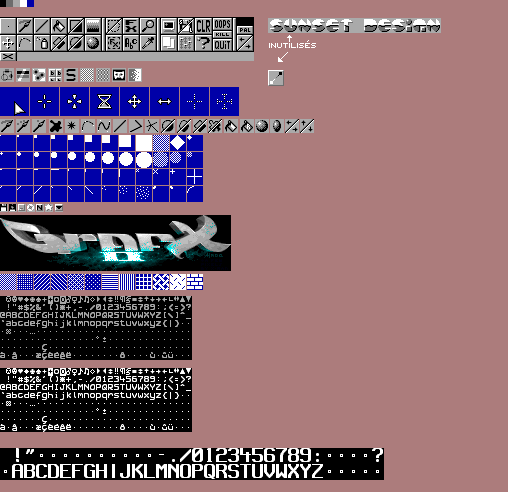
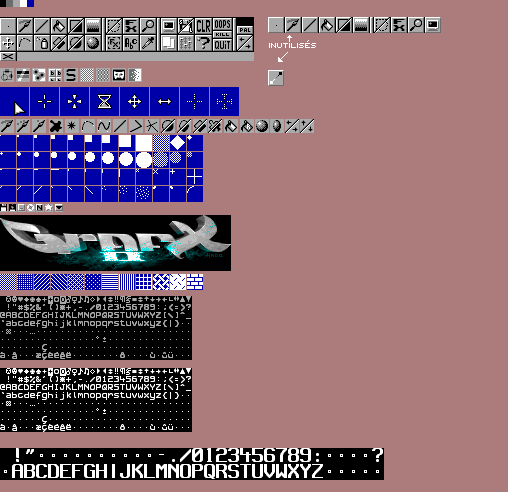
Preview skins.

Changed region(s): [[0.5315, 0.0305, 0.8858, 0.0915]]

diff --git a/buttons.c b/buttons.c
@@ -1020,10 +1020,13 @@ void Button_Skins(void)
   int selected_cursor = Config.Cursor;
   byte separatecolors = Config.Separate_colors;
   byte showlimits = Config.Display_image_limits;
+
+  word x,y, x_pos, offs_y;
   
   char * cursors[] = { "Solid", "Transparent", "Thin" };
+  T_Gui_skin * gfx = NULL;
 
-  #define FILESEL_Y 52
+  #define FILESEL_Y 34
 
   // --- Read the contents of skins/ directory ------------------
   
@@ -1050,11 +1053,11 @@ void Button_Skins(void)
   Window_display_frame_in(6, FILESEL_Y - 2, 148, 84); // File selector
 
   // Texts
-  Print_in_window( 6, 21,"Font"            ,MC_Black,MC_Light);
-  Print_in_window( 6, 36,"Cursor"          ,MC_Black,MC_Light);
+  Print_in_window( 172, 33,"Font:"            ,MC_Black,MC_Light);
+  Print_in_window( 172, 59,"Cursor:"          ,MC_Black,MC_Light);
 
   // Ok button
-  Window_set_normal_button(172, 120, 51, 14, "OK", 0, 1, SDLK_RETURN); // 1
+  Window_set_normal_button(6, 120, 51, 14, "OK", 0, 1, SDLK_RETURN); // 1
 
   // List of skins
   skin_list = Window_set_list_button(
@@ -1068,30 +1071,34 @@ void Button_Skins(void)
   skin_list->Cursor_position = Find_file_in_fileselector(&Skin_files_list, Config.Skin_file);
 
   // Buttons to choose a font
-  font_dropdown = Window_set_dropdown_button(60,19,104,11,0, Get_item_by_index(&Font_files_list,selected_font)->Short_name,1,0,1,RIGHT_SIDE|LEFT_SIDE); // 5
+  font_dropdown = Window_set_dropdown_button(172, 43, 104, 11, 0, Get_item_by_index(&Font_files_list,selected_font)->Short_name,1,0,1,RIGHT_SIDE|LEFT_SIDE); // 5
   for (temp=0; temp<Font_files_list.Nb_files; temp++)
     Window_dropdown_add_item(font_dropdown,temp,Get_item_by_index(&Font_files_list,temp)->Short_name);
 
   // Cancel
-  Window_set_normal_button(227, 120, 51,14,"Cancel",0,1,SDLK_ESCAPE); // 6
+  Window_set_normal_button(61, 120, 51,14,"Cancel",0,1,SDLK_ESCAPE); // 6
 
   // Dropdown list to choose cursor type
-  cursor_dropdown = Window_set_dropdown_button(60, 34, 104, 11, 0,
+  cursor_dropdown = Window_set_dropdown_button(172, 69, 104, 11, 0,
 	cursors[selected_cursor], 1, 0, 1, RIGHT_SIDE|LEFT_SIDE); // 7
   for (temp = 0; temp<3; temp++)
     Window_dropdown_add_item(cursor_dropdown, temp, cursors[temp]);
 
-  Window_set_normal_button(172, 23, 14, 14,
+  Window_set_normal_button(172, 87, 14, 14,
 	(Config.Display_image_limits)?"X":" ", -1, 1, SDLK_LAST); // 8
-  Print_in_window( 190, 21,"Draw picture", MC_Dark, MC_Light);
-  Print_in_window( 190, 30,"limits", MC_Dark, MC_Light);
+  Print_in_window( 190, 85,"Draw picture", MC_Dark, MC_Light);
+  Print_in_window( 190, 94,"limits", MC_Dark, MC_Light);
 
-  Window_set_normal_button(172, 52, 14, 14,
+  Window_set_normal_button(172, 111, 14, 14,
 	(Config.Separate_colors)?"X":" ", -1, 1, SDLK_LAST); // 9
-  Print_in_window( 190, 50,"Separate", MC_Dark, MC_Light);
-  Print_in_window( 190, 59,"colors", MC_Dark, MC_Light);
+  Print_in_window( 190, 109,"Separate", MC_Dark, MC_Light);
+  Print_in_window( 190, 118,"colors", MC_Dark, MC_Light);
   
   Window_redraw_list(skin_list);
+
+  for (y = 14, offs_y = 0; offs_y < 16; offs_y++, y++)
+    for (x = 6, x_pos = 0; x_pos<173; x_pos++, x++)
+      Pixel_in_window(x, y, skin_logo[offs_y][x_pos]);
 
   Update_window_area(0,0,Window_width, Window_height);
 
@@ -1110,6 +1117,22 @@ void Button_Skins(void)
 		case 3 : // doesn't happen
 			break;
 		case 4 : // a file is selected
+
+			// (Re-)load GUI graphics from selected skins
+			strcpy(skinsdir, Get_item_by_index(&Skin_files_list,
+				skin_list->List_start + skin_list->Cursor_position)->Full_name);
+			gfx = Load_graphics(skinsdir);
+			if (gfx == NULL) // Error
+			{
+				Verbose_error_message(Gui_loading_error_message);
+			}
+
+			// Update preview
+			for (y = 14, offs_y = 0; offs_y < 16; offs_y++, y++)
+				for (x = 6, x_pos = 0; x_pos<173; x_pos++, x++)
+					Pixel_in_window(x, y, skin_logo[offs_y][x_pos]);
+			Update_window_area(4, 14, 174, 16);
+
 			break;
 		case 5 : // Font dropdown
 			selected_font = Window_attribute2; // Get the index of the chosen font.
@@ -1117,36 +1140,28 @@ void Button_Skins(void)
 			// 6: Cancel
 		case 7 : // Cursor
 			selected_cursor = Window_attribute2;
-        break;
+			break;
 		case 8: // Display limits
 			showlimits = !showlimits;
 			Hide_cursor();
-			Print_in_window(175, 26, (showlimits)?"X":" ", MC_Black, MC_Light);
+			Print_in_window(175, 90, (showlimits)?"X":" ", MC_Black, MC_Light);
 			Display_cursor();
 			break;
 		case 9: // Separate colors
 			separatecolors = !separatecolors;
 			Hide_cursor();
-			Print_in_window(175, 55, (separatecolors)?"X":" ", MC_Black, MC_Light);
+			Print_in_window(175, 114, (separatecolors)?"X":" ", MC_Black, MC_Light);
 			Display_cursor();
 			break;
-    }
+	}
   }
   while ( (clicked_button!=1) && (clicked_button !=6) && (Key != SDLK_ESCAPE));
 
   if(clicked_button == 1)
   {
-    T_Gui_skin * gfx;
-    byte * new_font;
+	byte * new_font;
 
-    // (Re-)load GUI graphics from selected skins
-    strcpy(skinsdir, Get_item_by_index(&Skin_files_list, skin_list->List_start+skin_list->Cursor_position)->Full_name);
-	  gfx=Load_graphics(skinsdir);
-	  if (gfx == NULL) // Error
-    {
-      Verbose_error_message(Gui_loading_error_message);
-	  }
-	  else
+	  if (gfx != NULL)
 	  {
       free(Gfx);
       Gfx = gfx;

diff --git a/init.c b/init.c
@@ -346,6 +346,12 @@ byte Parse_skin(SDL_Surface * gui, T_Gui_skin *gfx)
     return 1;
   if (Read_GUI_block(gui, cursor_x, cursor_y, gfx->Menu_block, MENU_WIDTH, MENU_HEIGHT,"menu",0))
     return 1;
+
+  cursor_x += MENU_WIDTH;
+  if (GUI_seek_right(gui, &cursor_x, cursor_y, neutral_color, "logo"))
+	return 1;
+  if (Read_GUI_block(gui, cursor_x, cursor_y, skin_logo, 173, 16, "logo", 0))
+	return 1;
   cursor_y+=MENU_HEIGHT;
 
   // Effets

diff --git a/global.h b/global.h
@@ -805,6 +805,9 @@ GFX2_GLOBAL byte * Menu_font;
 /// Pointer to the current active skin.
 GFX2_GLOBAL T_Gui_skin * Gfx;
 
+/// Logo of skin
+byte skin_logo[16][173];
+
 // -- Help data
 
 /// Index of the ::Help_section shown by the Help screen.
